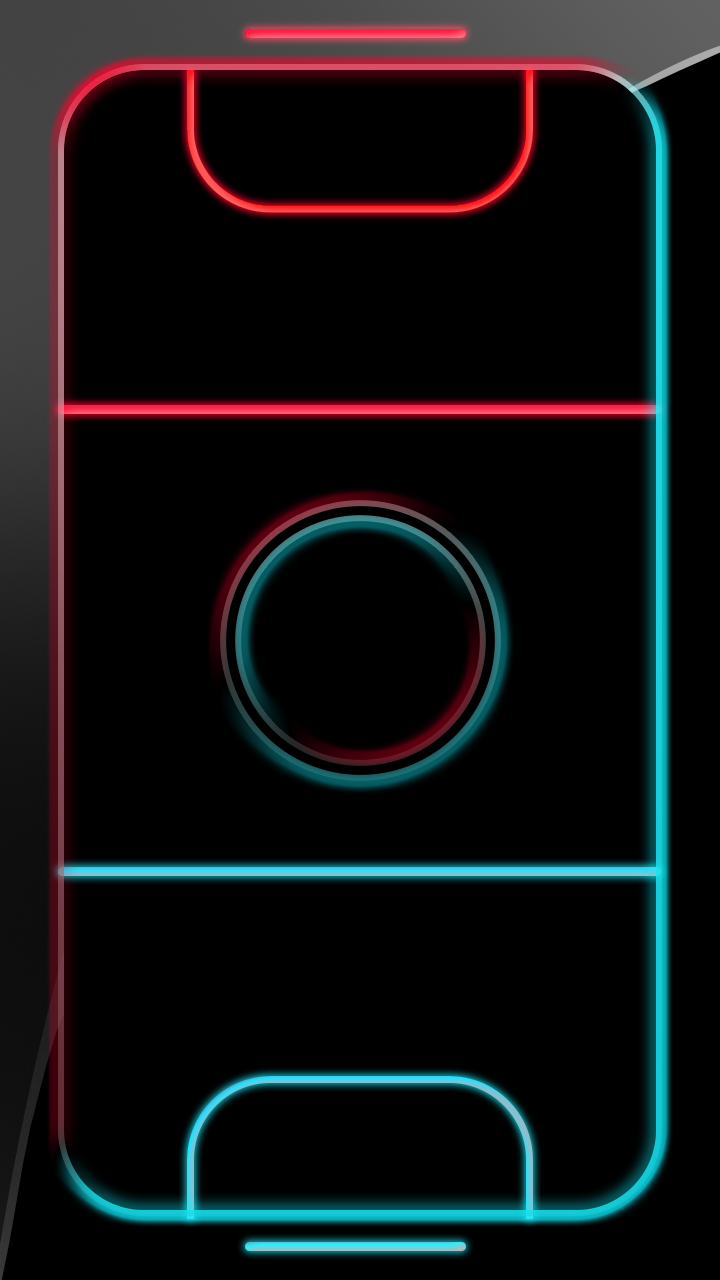
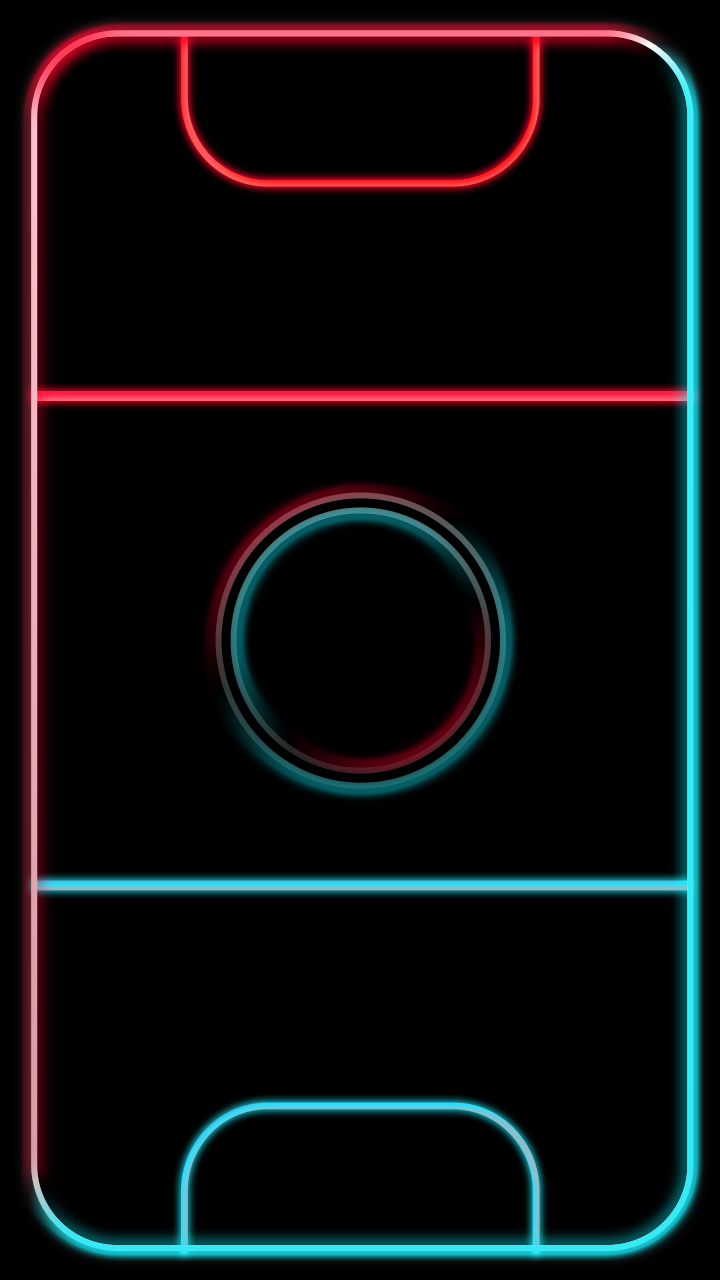
1. Nuevo arte de fondo

diff --git a/src/scenes/game.js b/src/scenes/game.js
@@ -130,7 +130,7 @@ export class Game extends Phaser.Scene {
     _init(){
         width = this.game.config.width;
         height = this.game.config.height;
-        this.add.image(width/2, height/2, 'back').setScale(1.16, .94);
+        this.add.image(width/2, height/2, 'back').setScale(1, .85);
 
         fullScreen = this.add.image(50, 50, 'fullScreen').setScale(.5);
 
